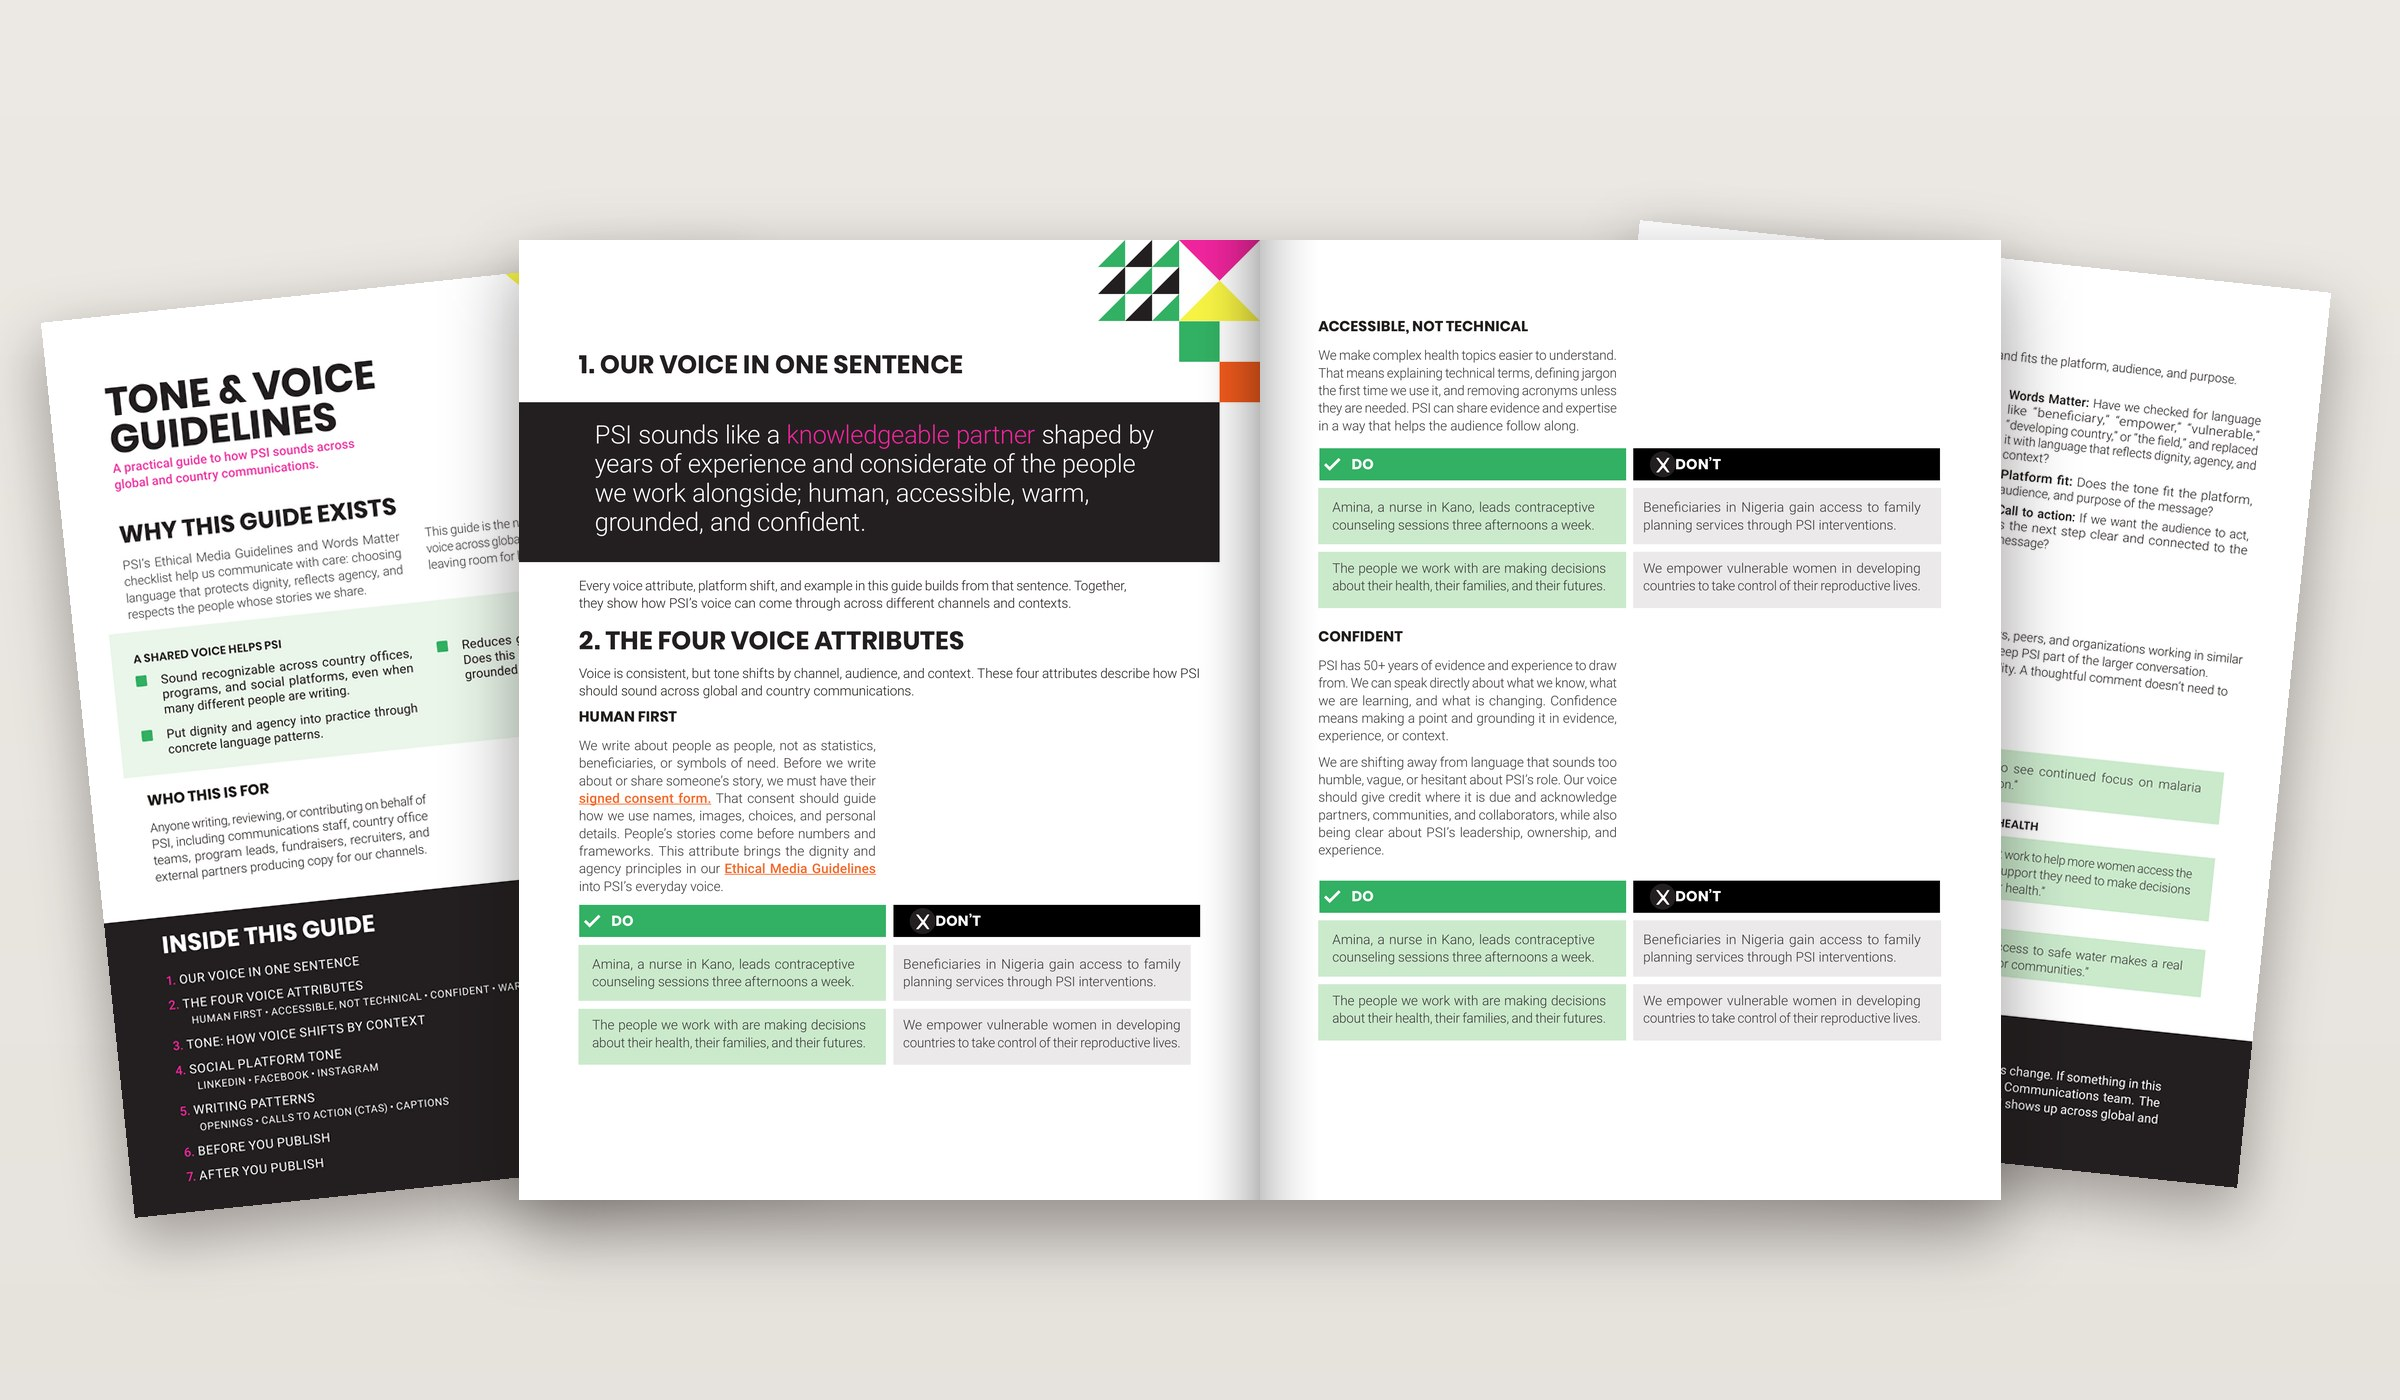
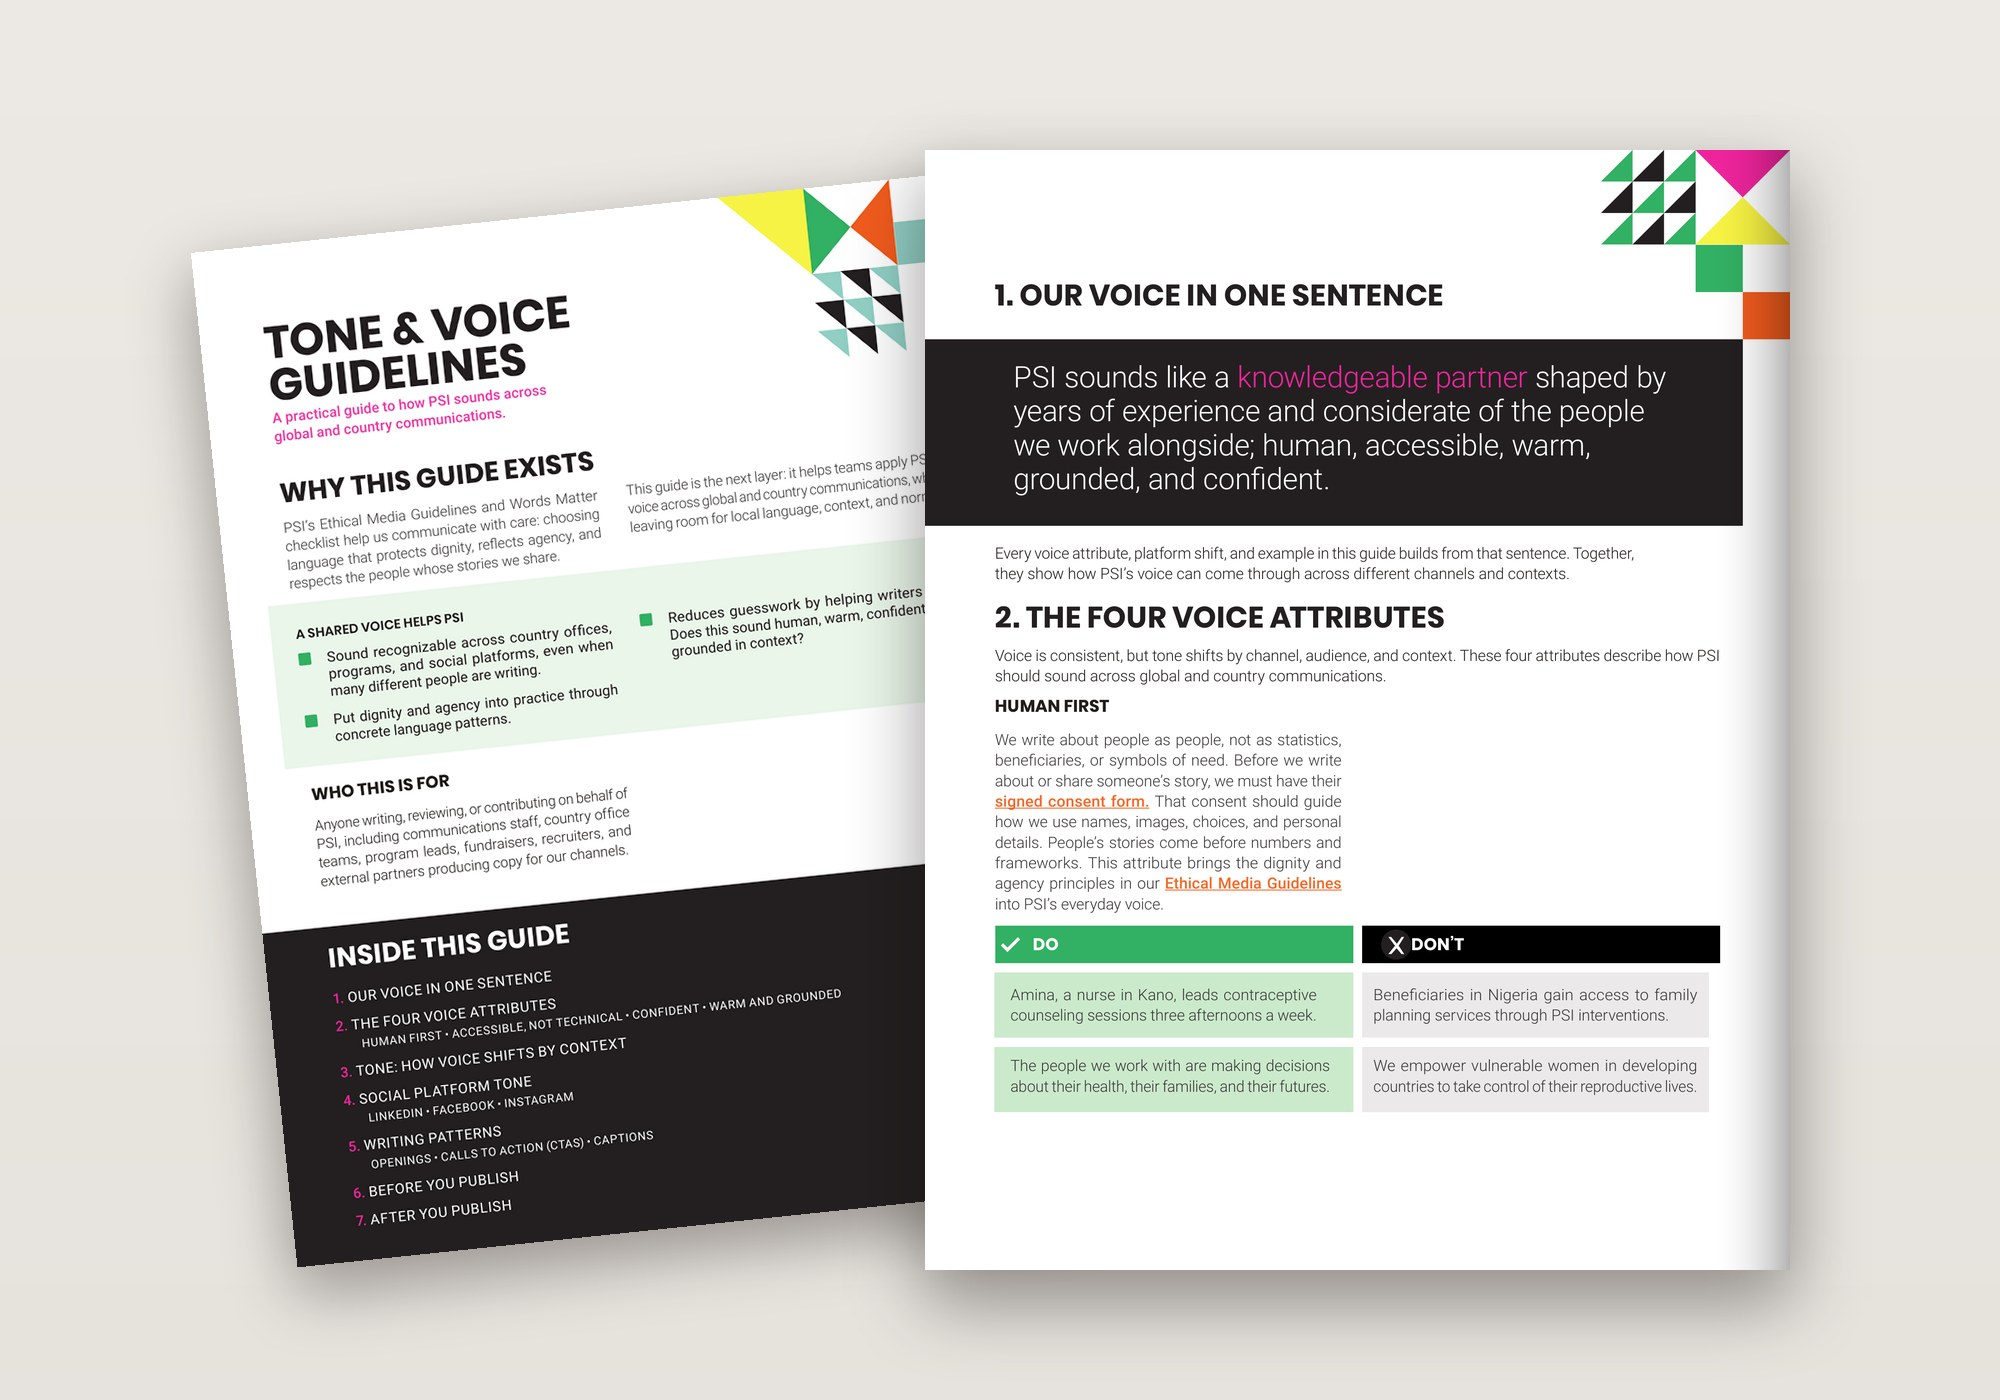
Simplify tone and voice mockup to the cover and first spread page
Claude-Session: https://claude.ai/code/session_015P9rPjXUedfrFCyjcAfiyw

diff --git a/work/brand-system.html b/work/brand-system.html
@@ -70,7 +70,7 @@
   <p>A system nobody knows how to use doesn't exist. I trained about 78 people across headquarters, regional teams and country offices, most of them not designers. I built Canva templates for the formats teams use most, and led adoption of the brand standards and tone and voice guidelines, so the brand sounds the same in every country, not just looks the same.</p>
 
   <figure class="cs-fig full reveal">
-    <img src="../images/brand-system-voice.jpg" width="2400" height="1400" alt="PSI Tone and Voice Guidelines 2026: the cover, the spread with the voice in one sentence and the four voice attributes with do and don't examples, and the before you publish page">
+    <img src="../images/brand-system-voice.jpg" width="2000" height="1400" alt="PSI Tone and Voice Guidelines 2026: the cover tilted behind the page with the voice in one sentence and the four voice attributes, with do and don't examples">
     <figcaption>Tone and voice, so the brand sounds the same in every country.</figcaption>
   </figure>
 
